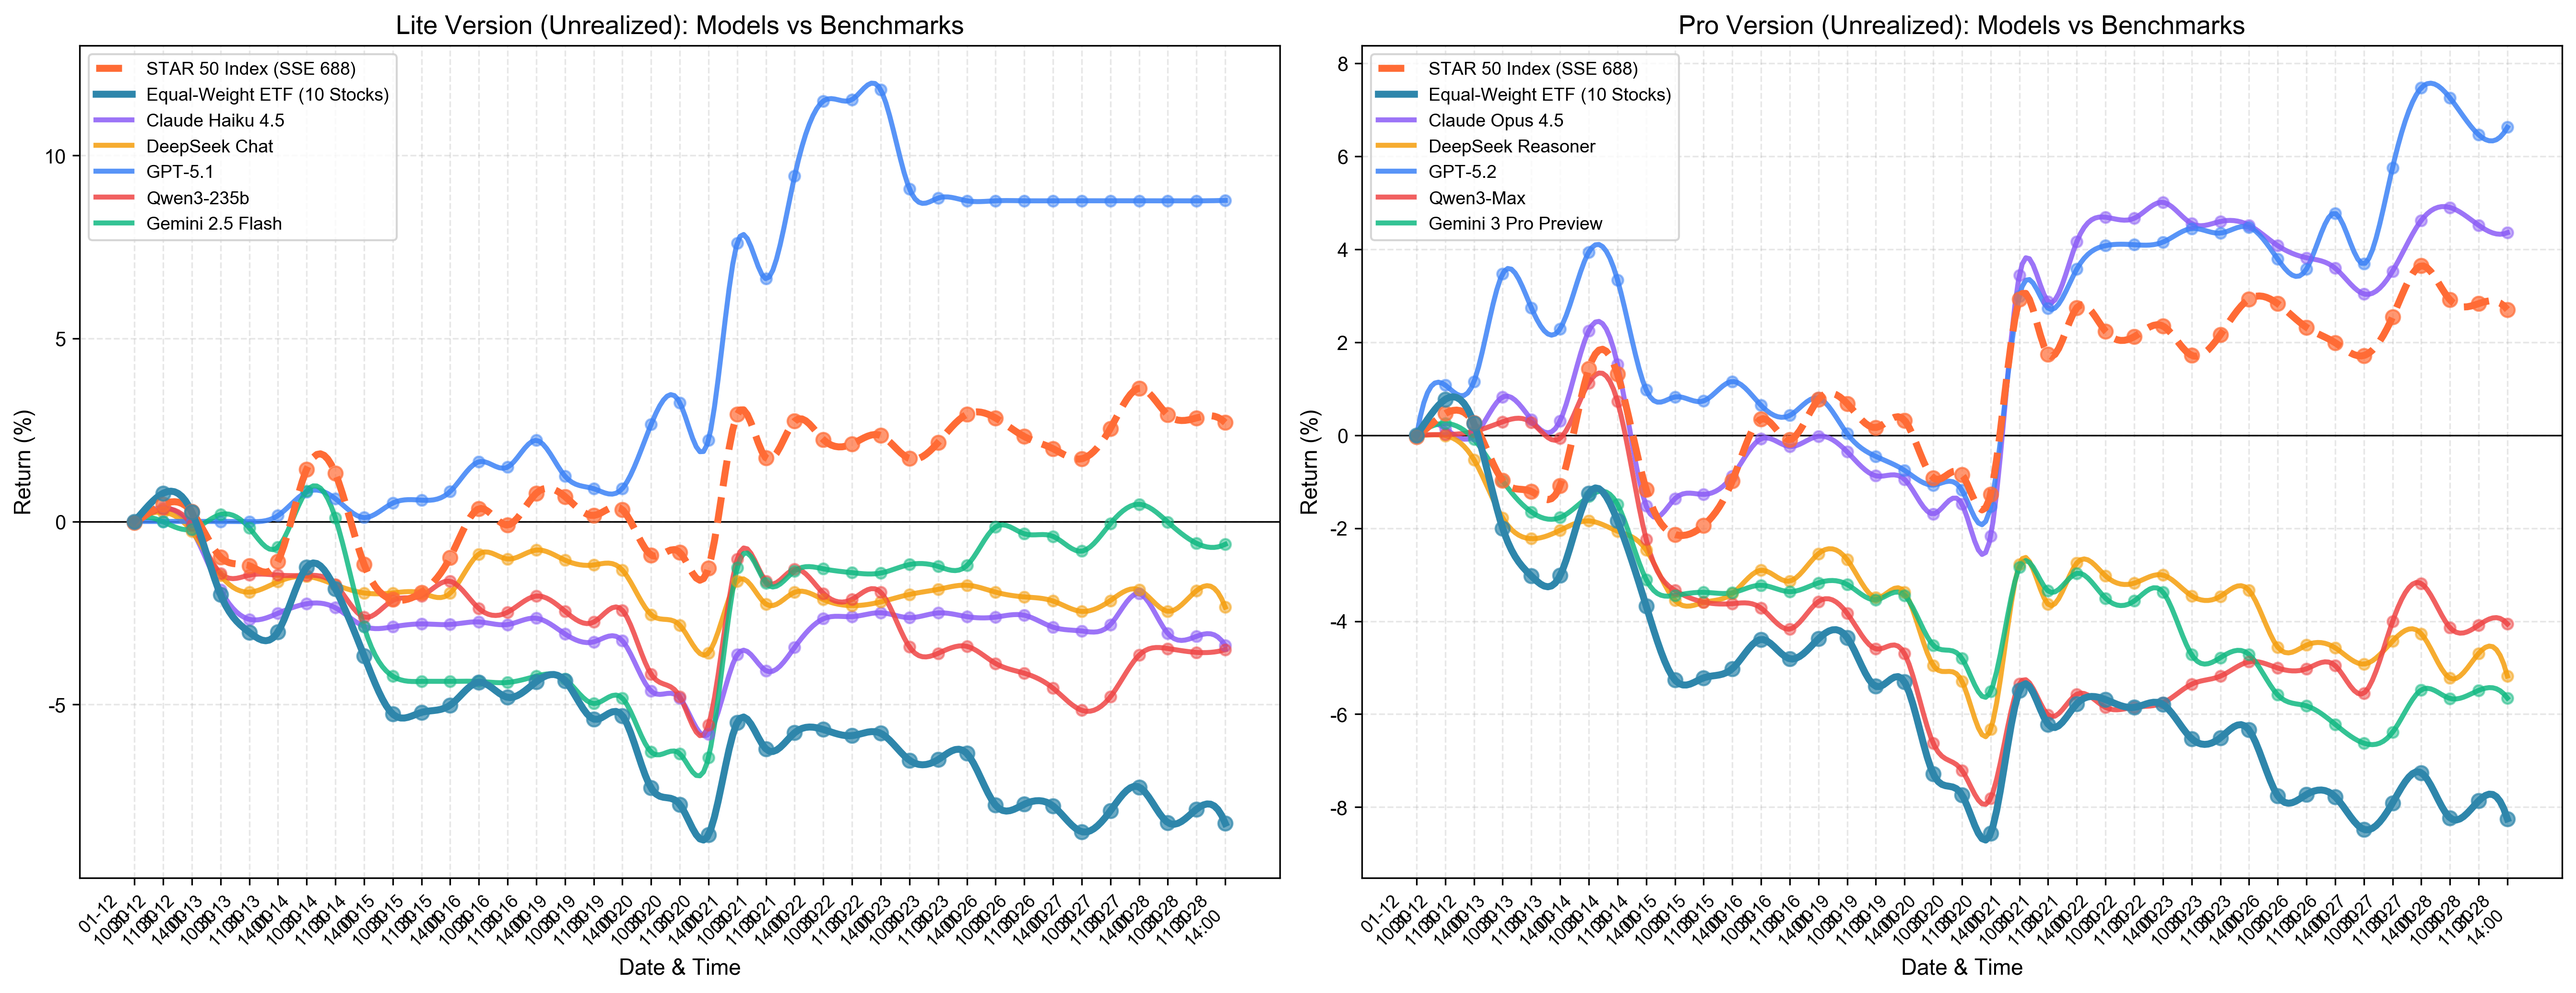
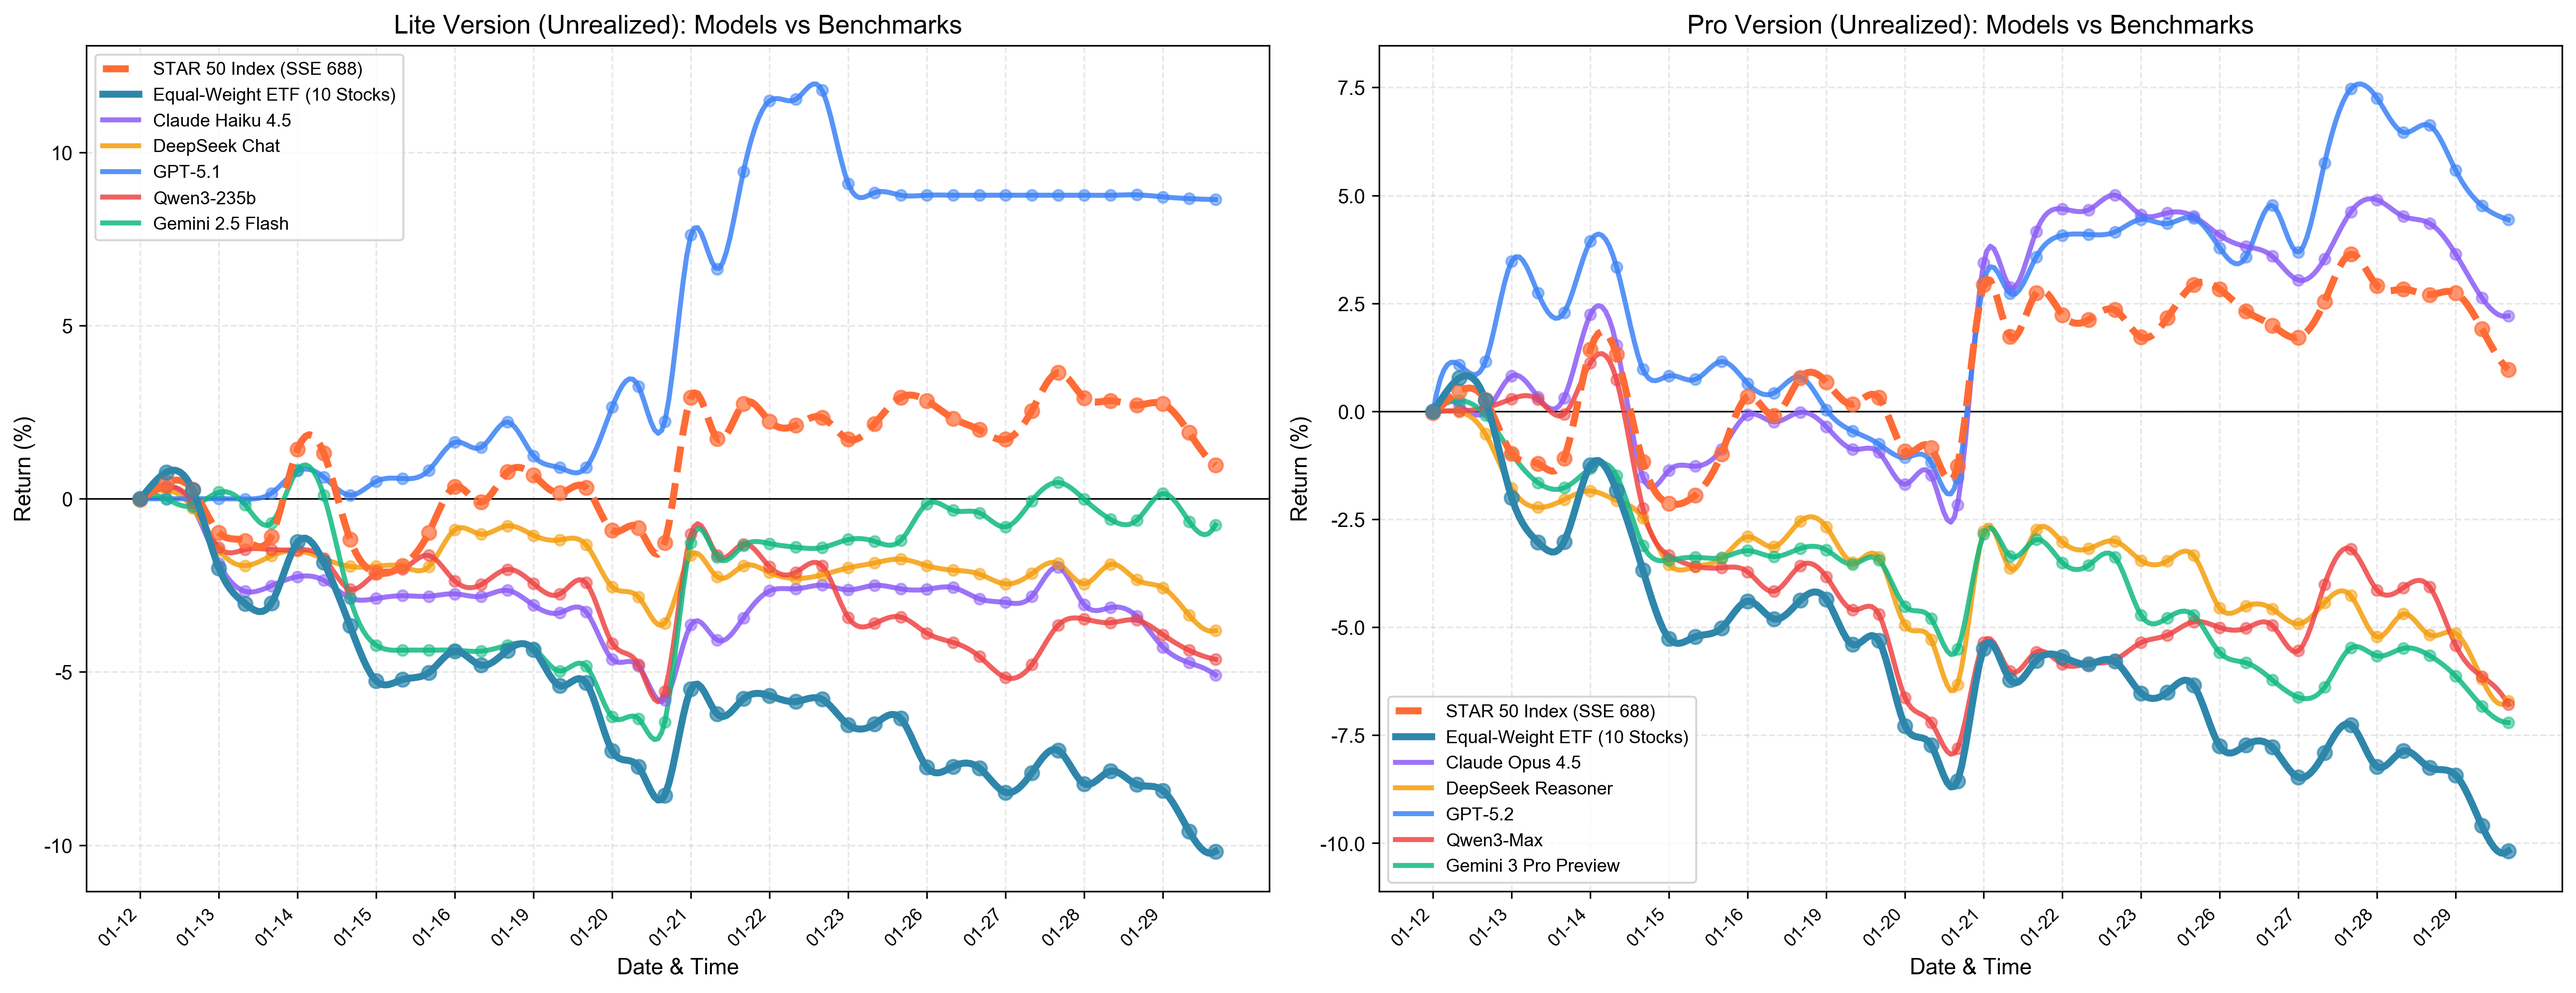
1.29

diff --git a/experiments/visualize.py b/experiments/visualize.py
@@ -25,12 +25,26 @@ OUTPUT_DIR.mkdir(exist_ok=True)
 
 # Date range filter (inclusive)
 DATE_FILTER_START = datetime.strptime("2026-01-12 00:00:00", "%Y-%m-%d %H:%M:%S")
-DATE_FILTER_END = datetime.strptime("2026-01-27 23:59:59", "%Y-%m-%d %H:%M:%S")
+DATE_FILTER_END = datetime.strptime("2026-01-29 23:59:59", "%Y-%m-%d %H:%M:%S")
 
 
 def in_date_range(dt: datetime) -> bool:
     """Return True if dt is within configured date window (inclusive)."""
     return DATE_FILTER_START <= dt <= DATE_FILTER_END
+
+
+def build_daily_ticks(sorted_times: List[datetime]) -> Tuple[List[int], List[str]]:
+    """Build sparse x-axis ticks: one tick per day (first occurrence)."""
+    tick_positions = []
+    tick_labels = []
+    last_date = None
+    for idx, dt in enumerate(sorted_times):
+        current_date = dt.date()
+        if last_date != current_date:
+            tick_positions.append(idx)
+            tick_labels.append(dt.strftime('%m-%d'))
+            last_date = current_date
+    return tick_positions, tick_labels
 
 # PnL snapshots directory
 PNL_SNAPSHOTS_DIR = PROJECT_ROOT / "data_flow" / "pnl_snapshots"
@@ -669,8 +683,8 @@ def plot_stock_attention(attention_data: Dict[datetime, Dict[str, int]], output_
                 linewidth=0.5)
     
     # 设置x轴标签
-    x_labels = [t.strftime('%m-%d\n%H:%M') for t in times]
-    ax.set_xticks(x_indices)
+    x_positions, x_labels = build_daily_ticks(times)
+    ax.set_xticks(x_positions)
     ax.set_xticklabels(x_labels, rotation=45, ha='right')
     
     # 格式化
@@ -792,8 +806,7 @@ def plot_weekly_pnl(pnl_data: Dict[str, List[Tuple[datetime, float, float]]],
     ax.grid(True, alpha=0.3, linestyle='--', linewidth=0.8)
     
     # 设置x轴和y轴格式
-    x_positions = list(range(len(sorted_times)))
-    x_labels = [dt.strftime('%m-%d\n%H:%M') for dt in sorted_times]
+    x_positions, x_labels = build_daily_ticks(sorted_times)
     ax.set_xticks(x_positions)
     ax.set_xticklabels(x_labels, rotation=45, ha='right')
     ax.yaxis.set_major_formatter(plt.FuncFormatter(lambda y, _: f'{y:.2f}%'))
@@ -1207,8 +1220,7 @@ def plot_etf_performance(etf_data: Dict):
     ax2.legend(fontsize=10)
     
     # 设置x轴标签（显示日期和时间，和前两个图一样）
-    x_labels = [dt.strftime('%m-%d\n%H:%M') for dt in sorted_times]
-    x_positions = list(range(len(sorted_times)))
+    x_positions, x_labels = build_daily_ticks(sorted_times)
     
     ax1.set_xticks(x_positions)
     ax1.set_xticklabels([])  # 上图不显示标签
@@ -1385,8 +1397,7 @@ def plot_etf_vs_models(etf_data: Dict, unrealized_pnl_data: Dict, kc50_data: Dic
     ax.axhline(y=0, color='black', linestyle='-', linewidth=0.8)
     
     # 设置x轴标签（和前两个图一样）
-    x_labels = [dt.strftime('%m-%d\n%H:%M') for dt in sorted_times]
-    x_positions = list(range(len(sorted_times)))
+    x_positions, x_labels = build_daily_ticks(sorted_times)
     ax.set_xticks(x_positions)
     ax.set_xticklabels(x_labels, rotation=45, ha='right')
     ax.set_xlabel('Date & Time', fontsize=12)
@@ -1564,8 +1575,7 @@ def plot_star50_return_only(kc50_data: Dict, output_filename: str = "star50_retu
     ax.legend(fontsize=10, loc='best')
     ax.axhline(y=0, color='black', linestyle='-', linewidth=0.8)
 
-    x_labels = [dt.strftime('%m-%d\n%H:%M') for dt in times]
-    x_positions = list(range(len(times)))
+    x_positions, x_labels = build_daily_ticks(times)
     ax.set_xticks(x_positions)
     ax.set_xticklabels(x_labels, rotation=45, ha='right')
     ax.set_xlabel('Date & Time', fontsize=12)
@@ -1673,8 +1683,7 @@ def _plot_benchmark_single(ax, etf_series, model_pnl_data, kc50_series, title_su
     ax.axhline(y=0, color='black', linestyle='-', linewidth=0.8)
     
     # 设置x轴标签
-    x_labels = [dt.strftime('%m-%d\n%H:%M') for dt in sorted_times]
-    x_positions = list(range(len(sorted_times)))
+    x_positions, x_labels = build_daily_ticks(sorted_times)
     ax.set_xticks(x_positions)
     ax.set_xticklabels(x_labels, rotation=45, ha='right', fontsize=9)
     ax.set_xlabel('Date & Time', fontsize=11)
@@ -1779,9 +1788,7 @@ def plot_model_version_comparison(lite_pnl_data: Dict, pro_pnl_data: Dict):
         ax.legend(fontsize=9, loc='best')
     
     # 设置 x 轴标签（仅在最后一个子图显示）
-    x_labels = [dt.strftime('%m-%d\n%H:%M') if i % 3 == 0 else '' 
-                for i, dt in enumerate(sorted_times)]
-    x_positions = list(range(len(sorted_times)))
+    x_positions, x_labels = build_daily_ticks(sorted_times)
     
     for ax in axes:
         ax.set_xticks(x_positions)
@@ -1897,9 +1904,7 @@ def plot_model_version_comparison_realized(lite_pnl_data: Dict, pro_pnl_data: Di
         ax.legend(fontsize=9, loc='best')
 
     # 设置 x 轴标签（仅在最后一个子图显示）
-    x_labels = [dt.strftime('%m-%d\n%H:%M') if i % 3 == 0 else ''
-                for i, dt in enumerate(sorted_times)]
-    x_positions = list(range(len(sorted_times)))
+    x_positions, x_labels = build_daily_ticks(sorted_times)
 
     for ax in axes:
         ax.set_xticks(x_positions)

diff --git a/experiments/visualizations/performance_summary.md b/experiments/visualizations/performance_summary.md
@@ -2,8 +2,8 @@
 
 | Model | Latest Return | Max Return | Min Return | Volatility |
 |-------|---------------|------------|------------|------------|
-| Claude Haiku 4.5 | -3.08% | 0.23% | -5.43% | 1.33% |
-| DeepSeek Chat | -1.36% | 0.12% | -2.35% | 0.81% |
-| Gemini 2.5 Flash | 0.36% | 0.36% | -6.45% | 1.99% |
-| GPT-5.1 | 8.76% | 8.76% | -0.02% | 3.83% |
-| Qwen3-235b | -5.27% | -0.01% | -5.27% | 1.55% |
+| Claude Haiku 4.5 | -3.08% | 0.23% | -5.43% | 1.29% |
+| DeepSeek Chat | -1.36% | 0.12% | -2.35% | 0.78% |
+| Gemini 2.5 Flash | -0.33% | 0.36% | -6.45% | 2.00% |
+| GPT-5.1 | 8.76% | 8.76% | -0.02% | 4.06% |
+| Qwen3-235b | -5.27% | -0.01% | -5.27% | 1.69% |

diff --git a/README.md b/README.md
@@ -22,9 +22,9 @@
 
 ## 📊 Performance Comparison Results
 
-**Updated: January 28, 2026**
+**Updated: January 29, 2026**
 
-This section showcases comprehensive performance comparisons across Lite and Pro model versions, including benchmark analyses and portfolio dynamics during the trading period (January 12-28, 2026).
+This section showcases comprehensive performance comparisons across Lite and Pro model versions, including benchmark analyses and portfolio dynamics during the trading period (January 12-29, 2026).
 
 ### Dual Model Version Strategy
 
